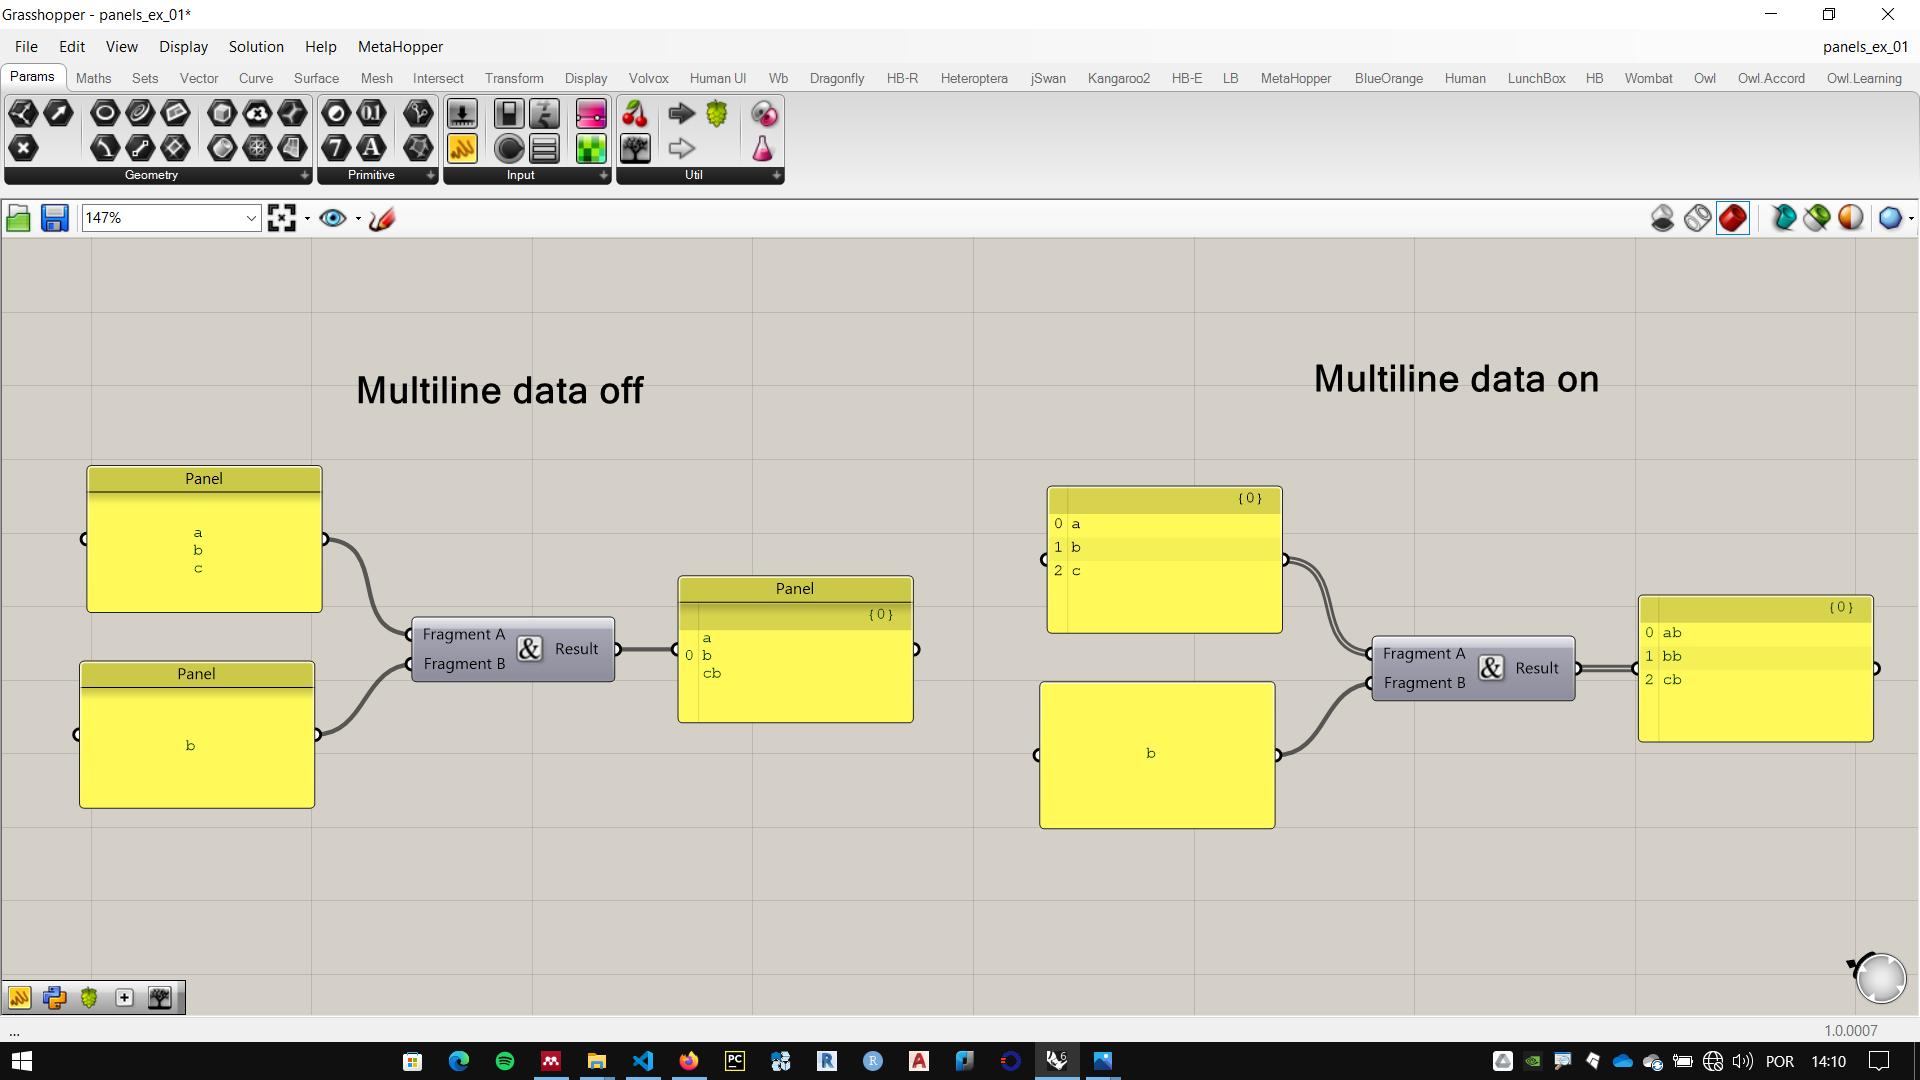
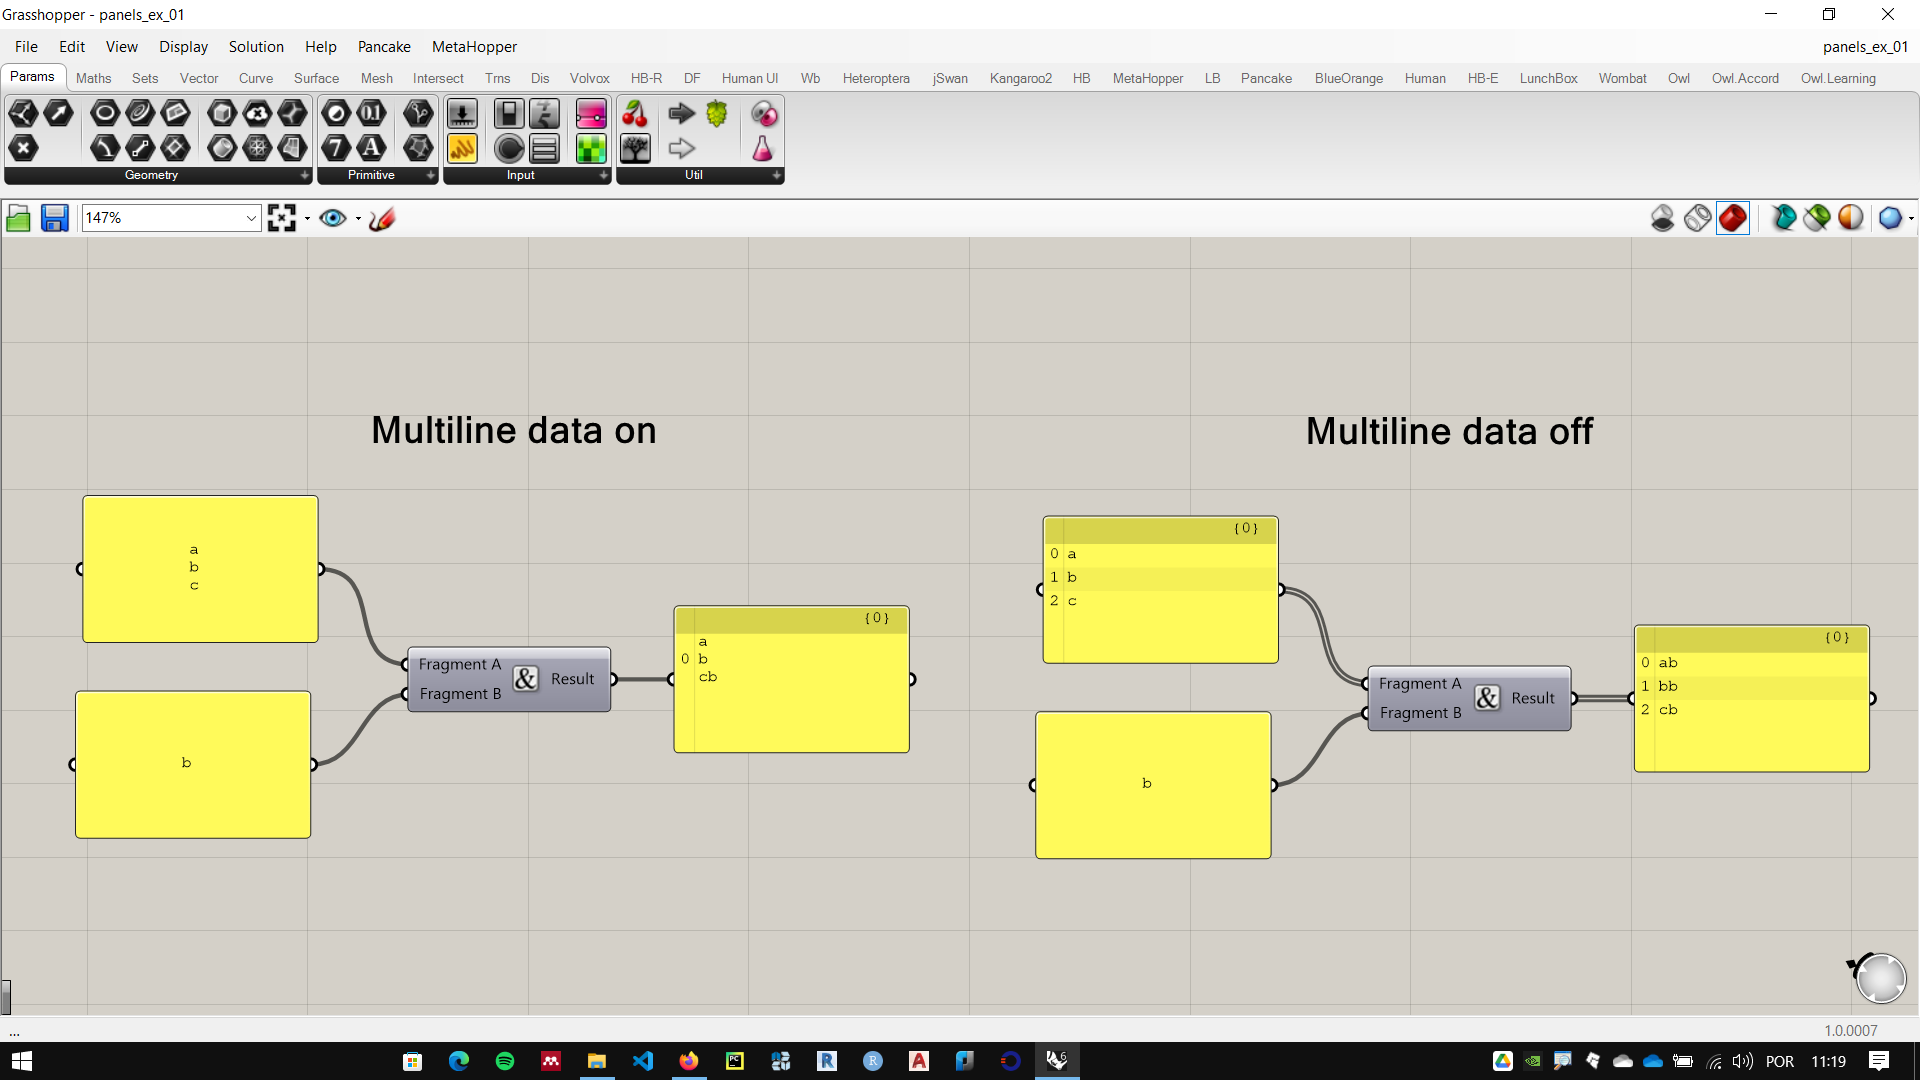
panels multiline data fix

diff --git a/Panels/Painel_config.MD b/Panels/Painel_config.MD
@@ -59,19 +59,19 @@ Os dados podem ser inseridos manualmente de diferentes maneiras:
 
 Podemos inserir múltiplas linhas de texto e um **slider** pelos métodos 1 e 2 listados acima, utilizando a tecla **enter** ao digitar.
 
-Clicando com o botão direito em um **slider** vemos as opções de configuração. Dentre elas, a opção **Multiline Data** é uma das mais importantes e vem marcada como desativada por padrão.
+Clicando com o botão direito em um **slider** vemos as opções de configuração. Dentre elas, a opção **Multiline Data** é uma das mais importantes e vem marcada como ativada por padrão.
 
 ![panels](./multiline_01.png)
 
-No exemplo abaixo vemos o componente **concatenate** utilizado com as mesmas entradas, na esquerda, o slider conectado à entrada **Fragment A** do componente está configurada com o **Multiline data** desativado (padrão para too slider novo), no exemplo da direita, a opção esta ativada.
+No exemplo abaixo vemos o componente **concatenate** utilizado com as mesmas entradas, na esquerda, o slider conectado à entrada **Fragment A** do componente está configurada com o **Multiline data** ativado (padrão para too slider novo), no exemplo da direita, a opção esta desativada.
 
 ![panels](./multiline_02.png)
 
 O componente **concatenate** junta dois textos em um só. Essa é uma operação simples, mas é muito utilizada em linguagens de programação e importante em diversos problemas computacionais.
 
-No primeiro exemplo, o componente considerou o texto em **Fragment A** como uma informação única, colocando o texto de **Fragment B** após o fim de **Fragment A**.
+No primeiro exemplo, o componente considerou o texto em **Fragment A** como uma informação única (um dado com multiplas linhas), colocando o texto de **Fragment B** após o fim de **Fragment A**.
 
-No exemplo da direita, com o **Multiline data** ativado, o componente considerou que cada linha de texto do **panel** era uma informação **data** separada. colocando o texto de **Fragment B** após o final de cada linha.
+No exemplo da direita, com o **Multiline data** desativado, o componente considerou que cada linha de texto do **panel** era uma informação **data** separada (um dado difernete por linha). colocando o texto de **Fragment B** após o final de cada linha.
 
 ____________________
 ____________________
